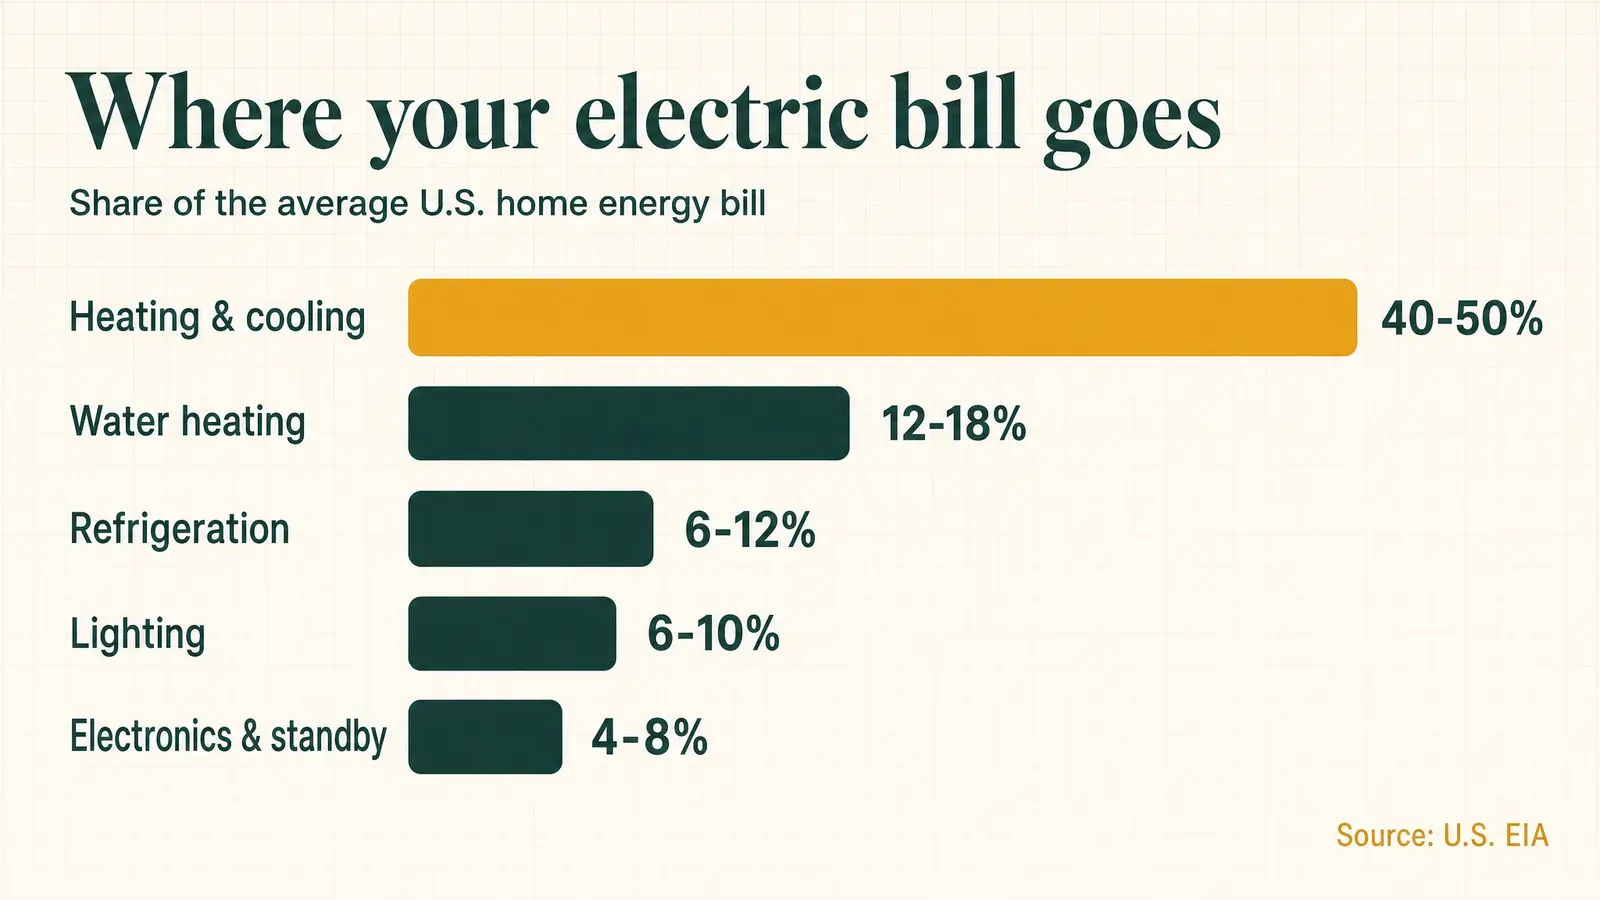
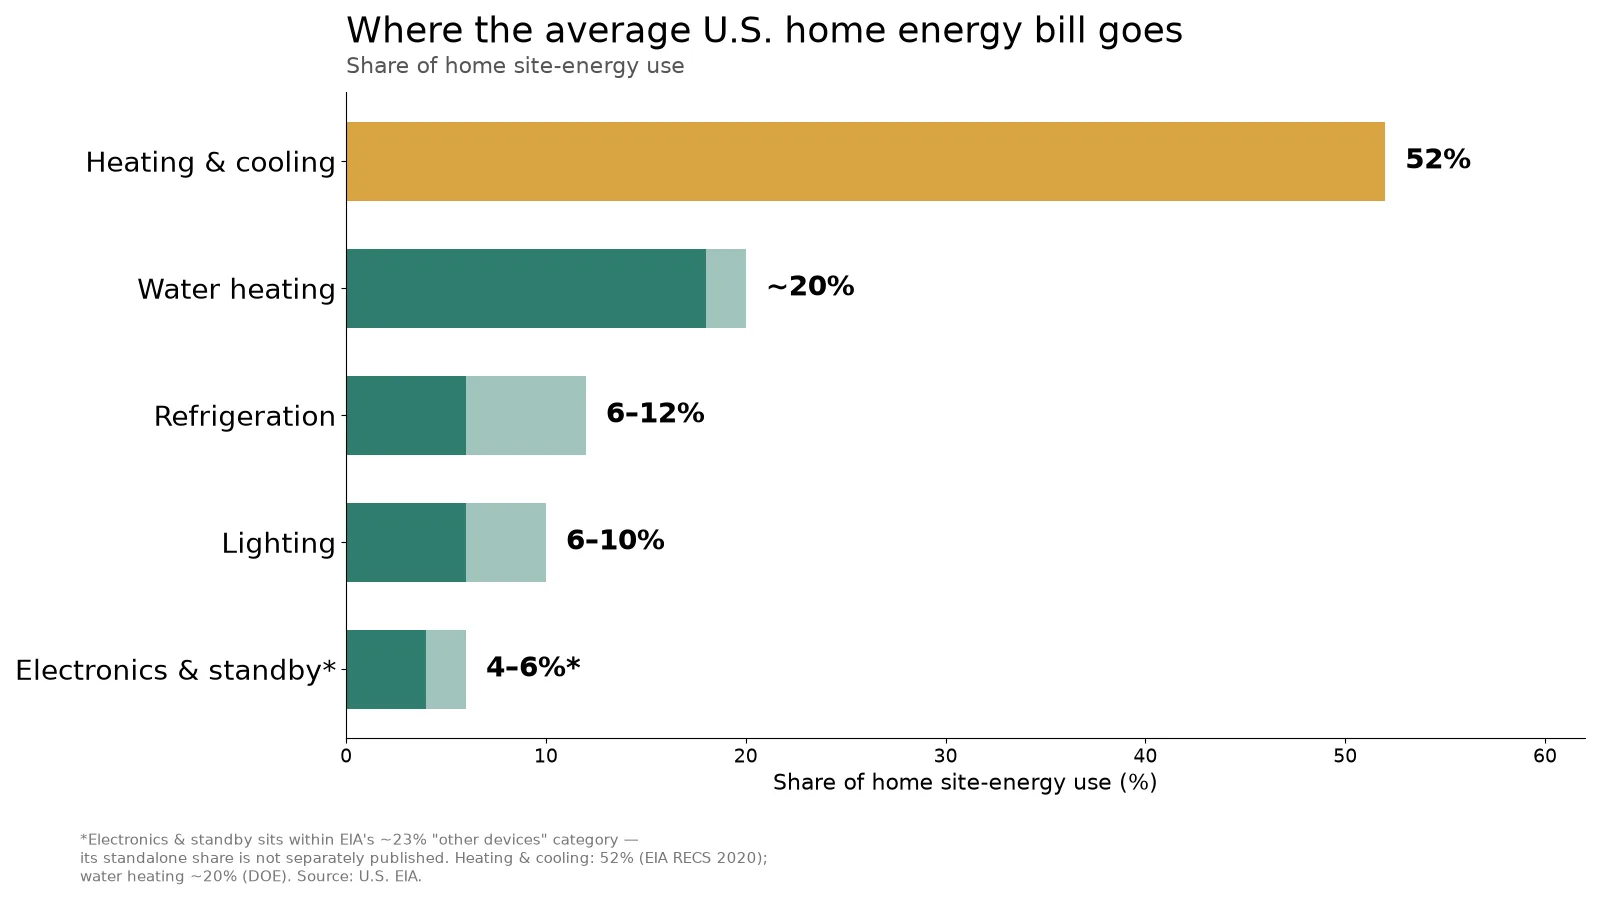
feat(conversion): position-instrumented placements + #1-page route refresh
- amazon/product-box shortcodes: optional position param -> data-rybbit-prop-position
  (flows to Rybbit natively + GA4 mirror; backward-compatible, no position = no attr)
- how-to-lower-electric-bill-complete-guide: three-route decision block under Quick
  Answer (bill-jumped / usage-unknown / hvac) with 2 position-tagged route links;
  tools cluster re-labeled primary-by-route + alternative; Emporia Vue 3 demoted to
  whole-home/panel-safe with electrician qualifier; hero chart regenerated with
  corrected EIA figures (52% HVAC RECS 2020, ~20% water DOE, other-devices footnote)
- complete-guide-understanding-utility-bill: redundant affiliate disclosure removed
  (0 placements, informational page -> AdSense eligible again)

Verified: hugo build green; 202 affiliate_click anchors site-wide; 10 position-tagged
on the refresh page; hero chart vision-QA'd. Per 2026-09-13 audit run
20260913T174500Z-audit-utility-repair-r1-40908a.

diff --git a/layouts/shortcodes/product-box.html b/layouts/shortcodes/product-box.html
@@ -4,17 +4,18 @@
 {{- $desc := .Get "description" -}}
 {{- $btn := .Get "button" | default "Check price on Amazon" -}}
 {{- $tag := .Site.Params.amazon_tag | default "litwd-20" -}}
+{{- $position := .Get "position" -}}
 {{- $visual := index .Site.Data.product_images $asin -}}
 <div class="product-box{{ with $visual }} has-product-visual{{ end }}">
   <div class="product-copy">
     {{ with $label }}<span class="product-label">{{ . }}</span>{{ end }}
     <strong class="product-name">{{ $name }}</strong>
     {{ with $desc }}<p>{{ . }}</p>{{ end }}
-    <a class="product-cta" href="https://www.amazon.com/dp/{{ $asin }}?tag={{ $tag }}" rel="sponsored nofollow noopener" target="_blank" data-rybbit-event="affiliate_click" data-rybbit-prop-asin="{{ $asin }}" data-rybbit-prop-format="box">{{ $btn }}</a>
+    <a class="product-cta" href="https://www.amazon.com/dp/{{ $asin }}?tag={{ $tag }}" rel="sponsored nofollow noopener" target="_blank" data-rybbit-event="affiliate_click" data-rybbit-prop-asin="{{ $asin }}" data-rybbit-prop-format="box"{{ with $position }} data-rybbit-prop-position="{{ . }}"{{ end }}>{{ $btn }}</a>
     <span class="product-note">Price &amp; availability shown on Amazon.com — we may earn a commission.</span>
   </div>
   {{ with $visual }}
-    <a class="product-visual" href="https://www.amazon.com/dp/{{ $asin }}?tag={{ $tag }}" rel="sponsored nofollow noopener" target="_blank" aria-label="View {{ $name }} on Amazon" data-rybbit-event="affiliate_click" data-rybbit-prop-asin="{{ $asin }}" data-rybbit-prop-format="box_image">
+    <a class="product-visual" href="https://www.amazon.com/dp/{{ $asin }}?tag={{ $tag }}" rel="sponsored nofollow noopener" target="_blank" aria-label="View {{ $name }} on Amazon" data-rybbit-event="affiliate_click" data-rybbit-prop-asin="{{ $asin }}" data-rybbit-prop-format="box_image"{{ with $position }} data-rybbit-prop-position="{{ . }}"{{ end }}>
       <img src="{{ .image }}" alt="{{ .alt }}" width="{{ .width }}" height="{{ .height }}" loading="lazy" decoding="async">
       <span class="product-visual-caption" aria-hidden="true">Illustrative product image</span>
     </a>

diff --git a/layouts/shortcodes/amazon.html b/layouts/shortcodes/amazon.html
@@ -1,4 +1,5 @@
 {{- $asin := .Get "asin" -}}
 {{- $text := .Get "text" | default "Check current price on Amazon" -}}
 {{- $tag := .Site.Params.amazon_tag | default "litwd-20" -}}
-<a href="https://www.amazon.com/dp/{{ $asin }}?tag={{ $tag }}" rel="sponsored nofollow noopener" target="_blank" class="amazon-link" data-rybbit-event="affiliate_click" data-rybbit-prop-asin="{{ $asin }}" data-rybbit-prop-format="inline">{{ $text }}</a>
+{{- $position := .Get "position" -}}
+<a href="https://www.amazon.com/dp/{{ $asin }}?tag={{ $tag }}" rel="sponsored nofollow noopener" target="_blank" class="amazon-link" data-rybbit-event="affiliate_click" data-rybbit-prop-asin="{{ $asin }}" data-rybbit-prop-format="inline"{{ with $position }} data-rybbit-prop-position="{{ . }}"{{ end }}>{{ $text }}</a>

diff --git a/content/blog/how-to-lower-electric-bill-complete-guide.md b/content/blog/how-to-lower-electric-bill-complete-guide.md
@@ -3,7 +3,7 @@ title: "How to Lower Your Electric Bill: The Complete Guide (2026)"
 slug: "how-to-lower-electric-bill-complete-guide"
 description: "17 proven steps to lower your electric bill, organized by cost, with exact dollar savings and payback periods."
 date: 2026-08-10
-updated: 2026-09-06
+updated: 2026-09-13
 author: "David Chen"
 category: "Savings & Efficiency"
 categories: ["Savings & Efficiency"]
@@ -11,7 +11,7 @@ tags: ["lower electric bill", "save electricity", "energy efficiency", "reduce e
 keywords: ["lower electric bill", "reduce electricity usage", "energy saving tips", "electric bill hacks", "cut electricity costs"]
 image: "/images/articles/how-to-lower-electric-bill-complete-guide/energy-hogs-hero.webp"
 og_image: "/images/social/og-lower-electric-bill.webp"
-image_alt: "Horizontal bar chart: where the average U.S. home energy bill goes — heating and cooling 40–50% (gold bar), water heating 12–18%, refrigeration 6–12%, lighting 6–10%, electronics and standby power 4–8% (teal bars). Source: U.S. EIA."
+image_alt: "Horizontal bar chart: where the average U.S. home energy bill goes — heating and cooling about 52% (gold bar, EIA RECS 2020), water heating about 20%, refrigeration 6–12%, lighting 6–10%, and electronics within EIA's roughly 23% 'other devices' category (teal bars). Source: U.S. EIA."
 sources:
   - "U.S. Energy Information Administration, Electricity Monthly Update — https://www.eia.gov/electricity/monthly/update/end-use.php (retrieved 2026-08-28)"
   - "U.S. Energy Information Administration, FAQs: How much electricity does an American home use? — https://www.eia.gov/tools/faqs/faq.php?id=97&t=3 (retrieved 2026-08-28)"
@@ -31,7 +31,13 @@ You can cut your electric bill **20–40%** with the highest-ROI moves: raise su
 - Heating and cooling drive more than half of home energy use — 52% in 2020 (EIA RECS) — start there.
 - Most utilities run a free home energy audit; call before you spend a dollar.
 
-**Start here:** If your bill is the priority *right now*, do steps **1 (thermostat) and 3 (phantom loads)** today — together they typically save $10–$30/month with no equipment. If you have one weekend to spend, add steps **9 (LEDs) and 11 (air sealing)**. Save the bigger investments (steps **13 thermostat, 14 insulation, 16 heat pump**) for when old equipment fails or for a planned upgrade window. Not sure your usage is even the problem? Walk through [Why Your Electric Bill Is So High](/blog/03-why-is-my-electric-bill-so-high/) first to rule out billing errors, estimated reads, and rate changes. Want the same relief with no equipment at all, ranked shortest-first? The [no-solar-necessary route](/blog/how-to-lower-electric-bill-without-solar/) is the condensed path. This guide is the electric deep-dive in the site’s [Lower Your Bills hub](/lower-your-bills/) — cross-utility prioritization, measure-first tools, and envelope work live there.
+**Pick your route:**
+
+- **"My bill jumped unexpectedly."** Your usage probably didn't — rule out billing errors, estimated reads, and rate changes first: [Why Your Electric Bill Is So High](/blog/03-why-is-my-electric-bill-so-high/) walks the 15-minute check (free).
+- **"I know usage is high, but not what's causing it."** Measure before you spend. One weekend with a plug-in meter — {{< amazon asin="B00009MDBU" text="P3 Kill A Watt P4400 (~$30)" position="route-usage" >}} — finds your actual hogs; pair it with the free unplugging pass in step 3.
+- **"Heating/cooling is my main cost."** True for most homes (52% of energy use, EIA RECS 2020). Set the free thermostat schedule in step 1 today; if you want it automated, {{< amazon asin="B0D5BBYRJM" text="a learning thermostat like the Nest (4th gen)" position="route-hvac" >}} — covered honestly in step 13 — is the single highest-impact device.
+
+Want the same relief with no equipment at all, ranked shortest-first? The [no-solar-necessary route](/blog/how-to-lower-electric-bill-without-solar/) is the condensed path. This guide is the electric deep-dive in the site’s [Lower Your Bills hub](/lower-your-bills/) — cross-utility prioritization, measure-first tools, and envelope work live there.
 
 {{< visual src="/images/articles/how-to-lower-electric-bill-complete-guide/cost-tier-ladder.webp" alt="Three cost tiers for lowering an electric bill, from free behavior changes to big-ticket upgrades." caption="Start with the lowest-cost change that addresses the largest source of use in your home." wide="true" >}}
 
@@ -76,13 +82,13 @@ Before you can lower your bill, you need to know what's driving it. For most U.S
 
 ## Tools that pay for themselves
 
-Three devices earn their keep by making the changes in the steps below actually stick. Each is matched to a specific step in the guide:
+Measure first, then buy. The **primary pick depends on your route** from the top of this page: bill-jumped → no tool needed yet; usage-unknown → the Kill A Watt meter; heating/cooling-dominated → the learning thermostat. The other two are clearly-labeled alternatives for specific steps:
 
-{{< product-box asin="B0D5BBYRJM" name="Google Nest Learning Thermostat (4th gen)" label="The HVAC autopilot" description="Self-programming thermostat that builds your schedule in about a week. Google's manufacturer-reported savings: ~12% on heating, ~15% on cooling (Nest product page, 2024; vendor figures — independent results vary). The single highest-impact device for the 40–50% of your bill driven by heating and cooling — pair with step 13 and the HVAC optimization section." button="Check price on Amazon" >}}
+{{< product-box asin="B00009MDBU" name="P3 Kill A Watt P4400 Electricity Usage Monitor" label="Primary if you don't know your hogs — measure first" description="Plug-in meter that displays watts, kWh, and projected cost for whatever's on the outlet. P3 International spec sheet: 0.2% accuracy, 120V/15A, UL listed. The cheapest way to actually *measure* the phantom loads in step 3 and the per-appliance cost in the standby-power guide — measure first, then spend on smart strips." button="Check price on Amazon" position="tools-primary-meter" >}}
 
-{{< product-box asin="B00009MDBU" name="P3 Kill A Watt P4400 Electricity Usage Monitor" label="The phantom-load detective" description="Plug-in meter that displays watts, kWh, and projected cost for whatever's on the outlet. P3 International spec sheet: 0.2% accuracy, 120V/15A, UL listed. The cheapest way to actually *measure* the phantom loads in step 3 and the per-appliance cost in the standby-power guide — measure first, then spend on smart strips." button="Check price on Amazon" >}}
+{{< product-box asin="B0D5BBYRJM" name="Google Nest Learning Thermostat (4th gen)" label="Primary if heating/cooling dominates — the HVAC autopilot" description="Self-programming thermostat that builds your schedule in about a week. Google's manufacturer-reported savings: ~12% on heating, ~15% on cooling (Nest product page, 2024; vendor figures — independent results vary). The single highest-impact device for the ~52% of home energy use driven by heating and cooling (EIA RECS 2020) — pair with step 13 and the HVAC optimization section." button="Check price on Amazon" position="tools-primary-hvac" >}}
 
-{{< product-box asin="B0DKGBP38V" name="TP-Link Tapo P110M Smart Plug with Energy Monitoring (2-Pack)" label="Per-outlet monitoring, on a schedule" description="Wi-Fi smart plug with built-in energy monitoring that logs watts, kWh, and runtime in the Tapo app. TP-Link spec sheet: Matter-compatible, 15A max, 1800W, 120V, 2.4 GHz Wi-Fi, ETL listed (2-pack). Best for step 3 (phantom loads) and step 10 (smart strips) when you want per-outlet data, schedules, and away-mode randomization without buying a whole-home monitor." button="Check price on Amazon" >}}
+{{< product-box asin="B0DKGBP38V" name="TP-Link Tapo P110M Smart Plug with Energy Monitoring (2-Pack)" label="Alternative — per-outlet automation once you know the hogs" description="Wi-Fi smart plug with built-in energy monitoring that logs watts, kWh, and runtime in the Tapo app. TP-Link spec sheet: Matter-compatible, 15A max, 1800W, 120V, 2.4 GHz Wi-Fi, ETL listed (2-pack). Best for step 3 (phantom loads) and step 10 (smart strips) when you want per-outlet data, schedules, and away-mode randomization without buying a whole-home monitor." button="Check price on Amazon" position="tools-alt-smartplug" >}}
 
 **How to use them in this guide:** Nest = step 13 and the HVAC optimization block. Kill A Watt = step 3 (one weekend, hunt the biggest phantom loads in your house) and the [phantom-power-draw guide](/blog/phantom-power-draw-explained/). Tapo P110M (2-pack) = step 3 and step 10, especially for entertainment centers and home offices where you want set-and-forget automation. For the full category-by-category rundown — leak sensors, whole-home monitors, smart strips, and what each realistically saves — see our [guide to gadgets that lower utility bills](/blog/gadgets-that-lower-utility-bills/).
 
@@ -135,7 +141,7 @@ Old incandescent bulbs cost roughly 1¢/hour to run; LEDs cost a fraction of a c
 
 **Solution:** Use smart power strips ($15–$30) or simply unplug. If you would rather see every circuit at once instead of auditing outlet by outlet, the whole-home monitor below does that job in one install.
 
-{{< product-box asin="B0C7B1LKDW" name="Emporia Vue 3 Whole-Home Energy Monitor" label="See every circuit" description="Smart plugs cover one outlet at a time — the Vue covers the whole house. Sixteen circuit-level sensors show exactly which appliances eat your kWh, in real time, in one app." button="Check price on Amazon" >}}
+{{< product-box asin="B0C7B1LKDW" name="Emporia Vue 3 Whole-Home Energy Monitor" label="Whole-home / panel-safe — not a first purchase" description="Smart plugs cover one outlet at a time — the Vue covers the whole house. Sixteen circuit-level sensors show exactly which appliances eat your kWh, in real time, in one app. Installs inside the electrical panel: DIY only if you are comfortable working in a live panel; otherwise budget an electrician. Buy this only after a Kill A Watt weekend shows the outlet-level picture isn't enough." button="Check price on Amazon" position="tools-wholehome-panel" >}}
 
 {{< visual src="/images/articles/how-to-lower-electric-bill-complete-guide/phantom-load-wall.webp" alt="A nighttime home wall audit showing common plugged-in devices drawing standby power and a plug-in meter reading 43 watts." wide="true" >}}
 

diff --git a/content/blog/complete-guide-understanding-utility-bill.md b/content/blog/complete-guide-understanding-utility-bill.md
@@ -21,8 +21,6 @@ sources:
   - https://www.coned.com/en/accounts-billing/your-bill/how-to-read-your-bill/sample-bill-residential (Con Edison, Sample Residential Bill, retrieved 2026-08-30)
 ---
 
-{{< affiliate-disclosure >}}
-
 ## Quick Answer
 
 A utility bill is an itemized statement for moving and producing energy or water: **usage × rate, plus fixed charges, plus taxes and fees.** Those three components appear on nearly every residential statement [1][4] — labels vary, the arithmetic does not. This guide reads one completely in five steps; a worked bill, verified against current federal data, shows the pieces combining; every charge cross-links to a dedicated explainer.
